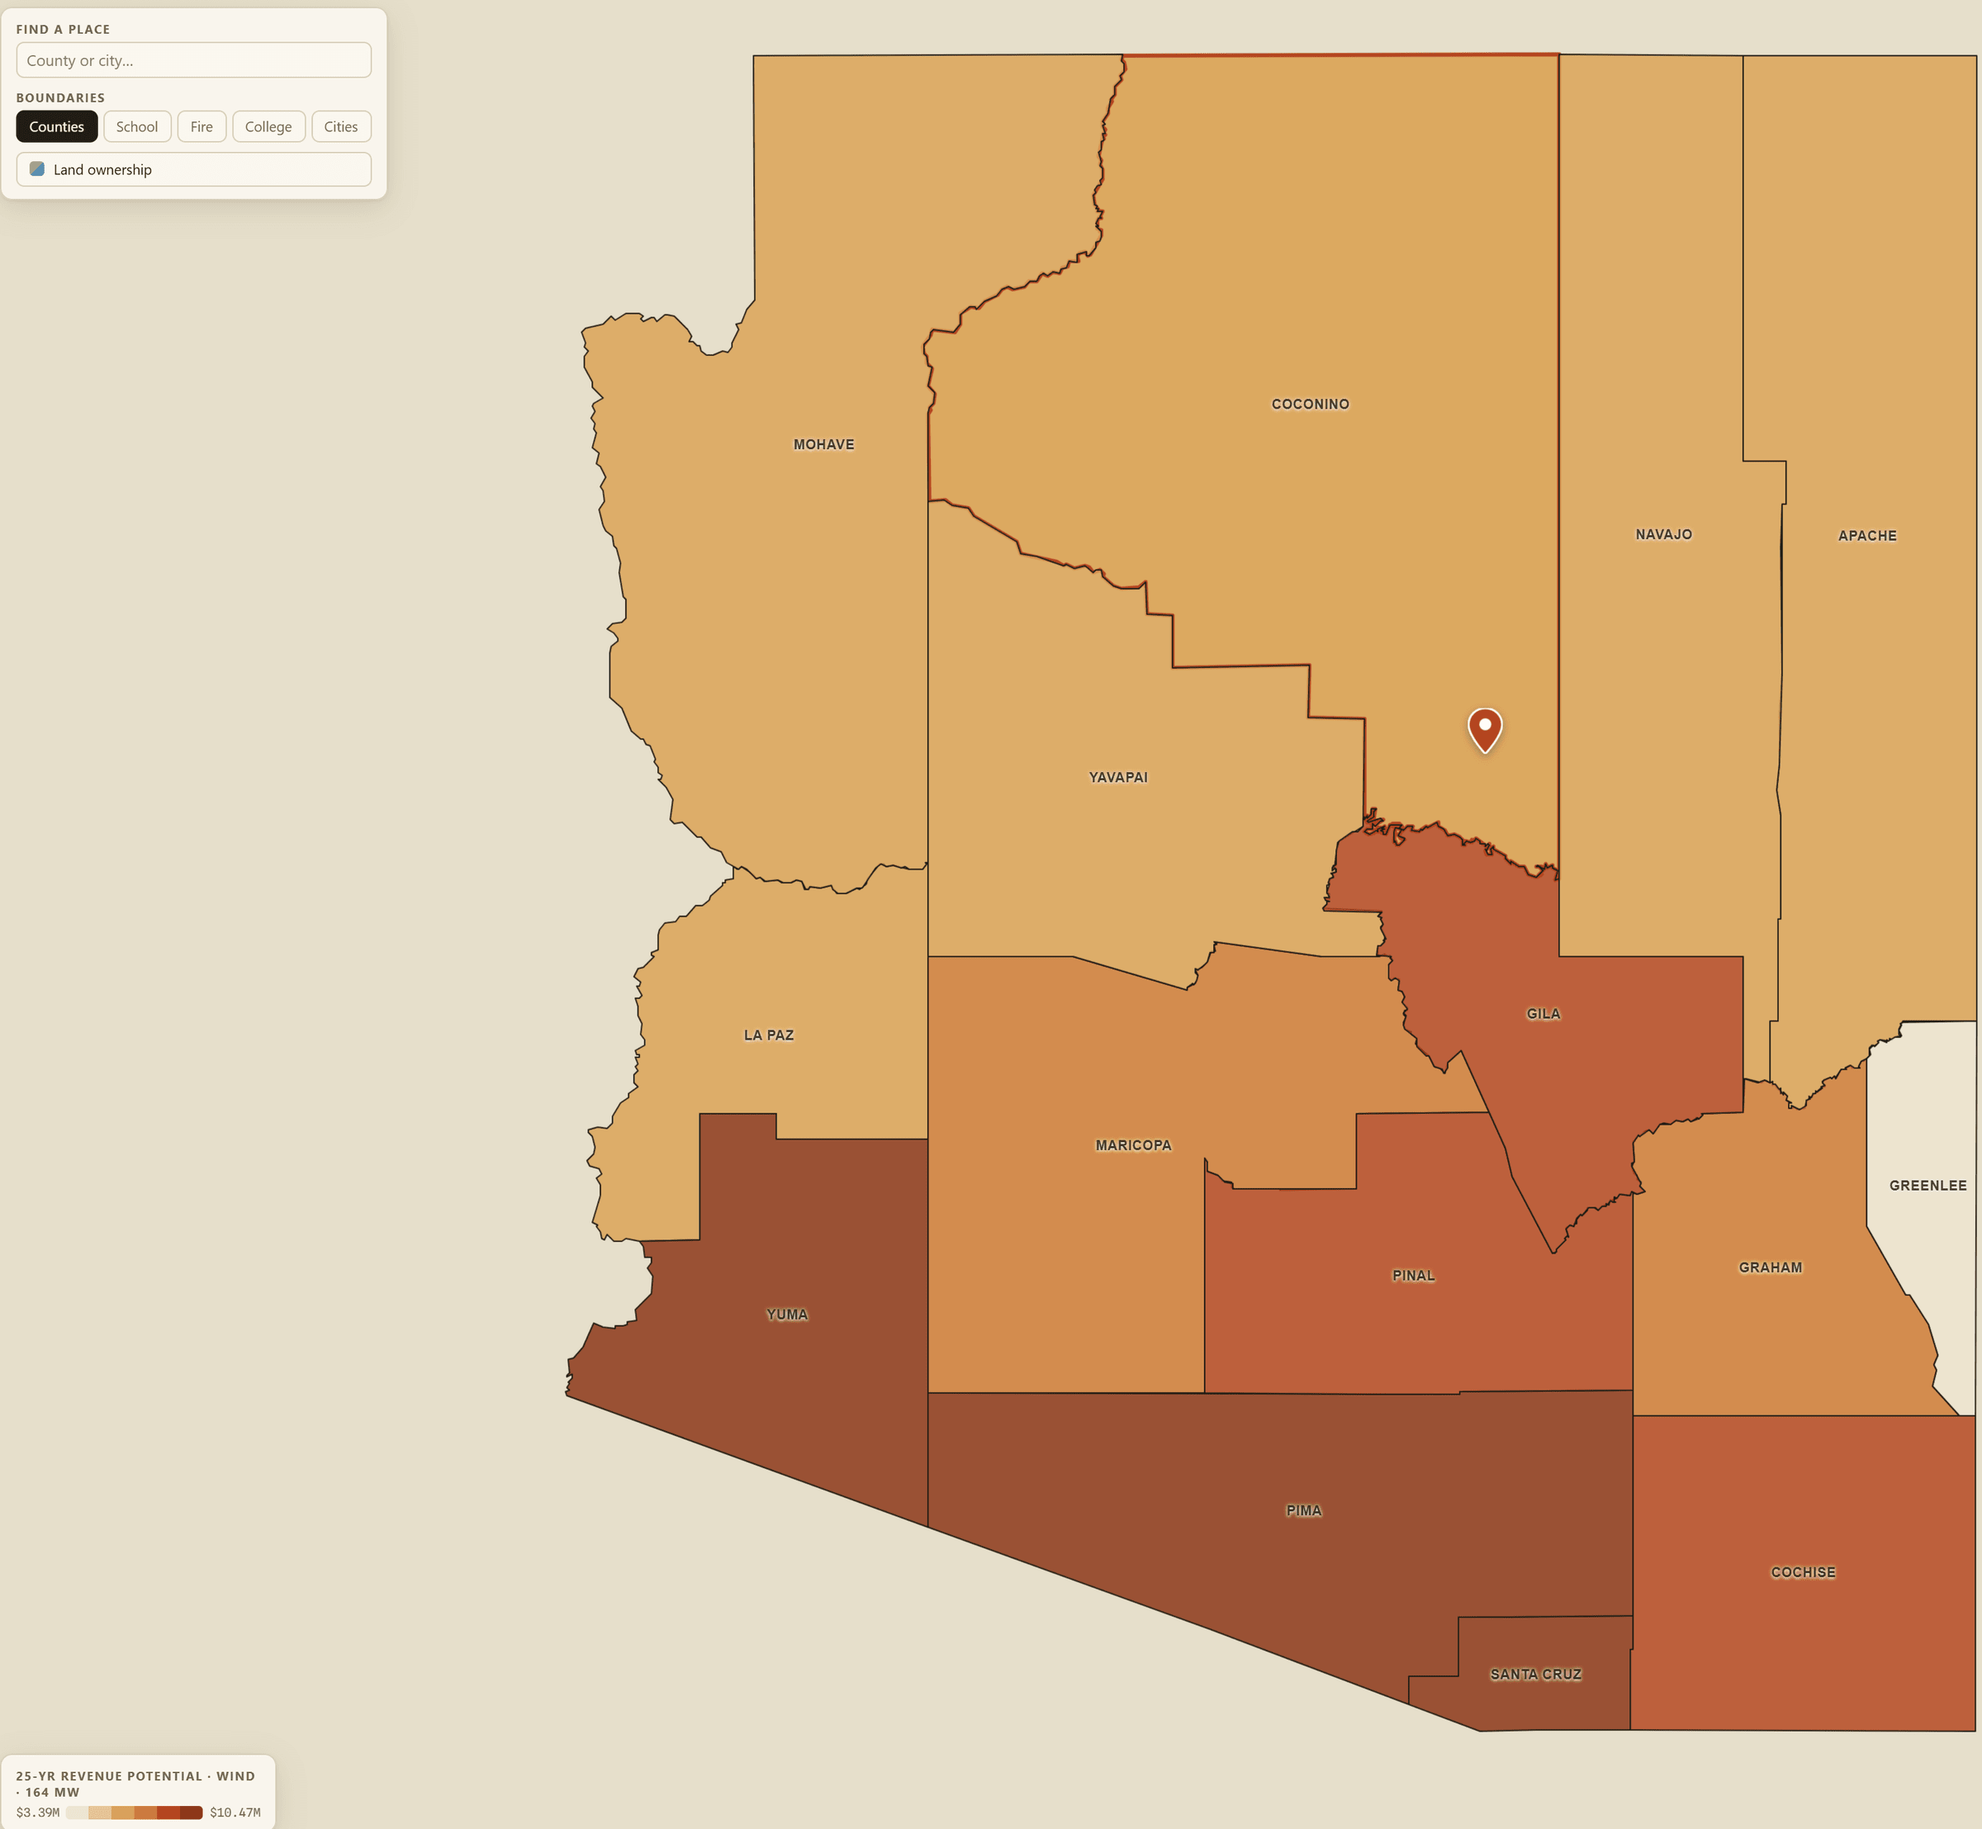
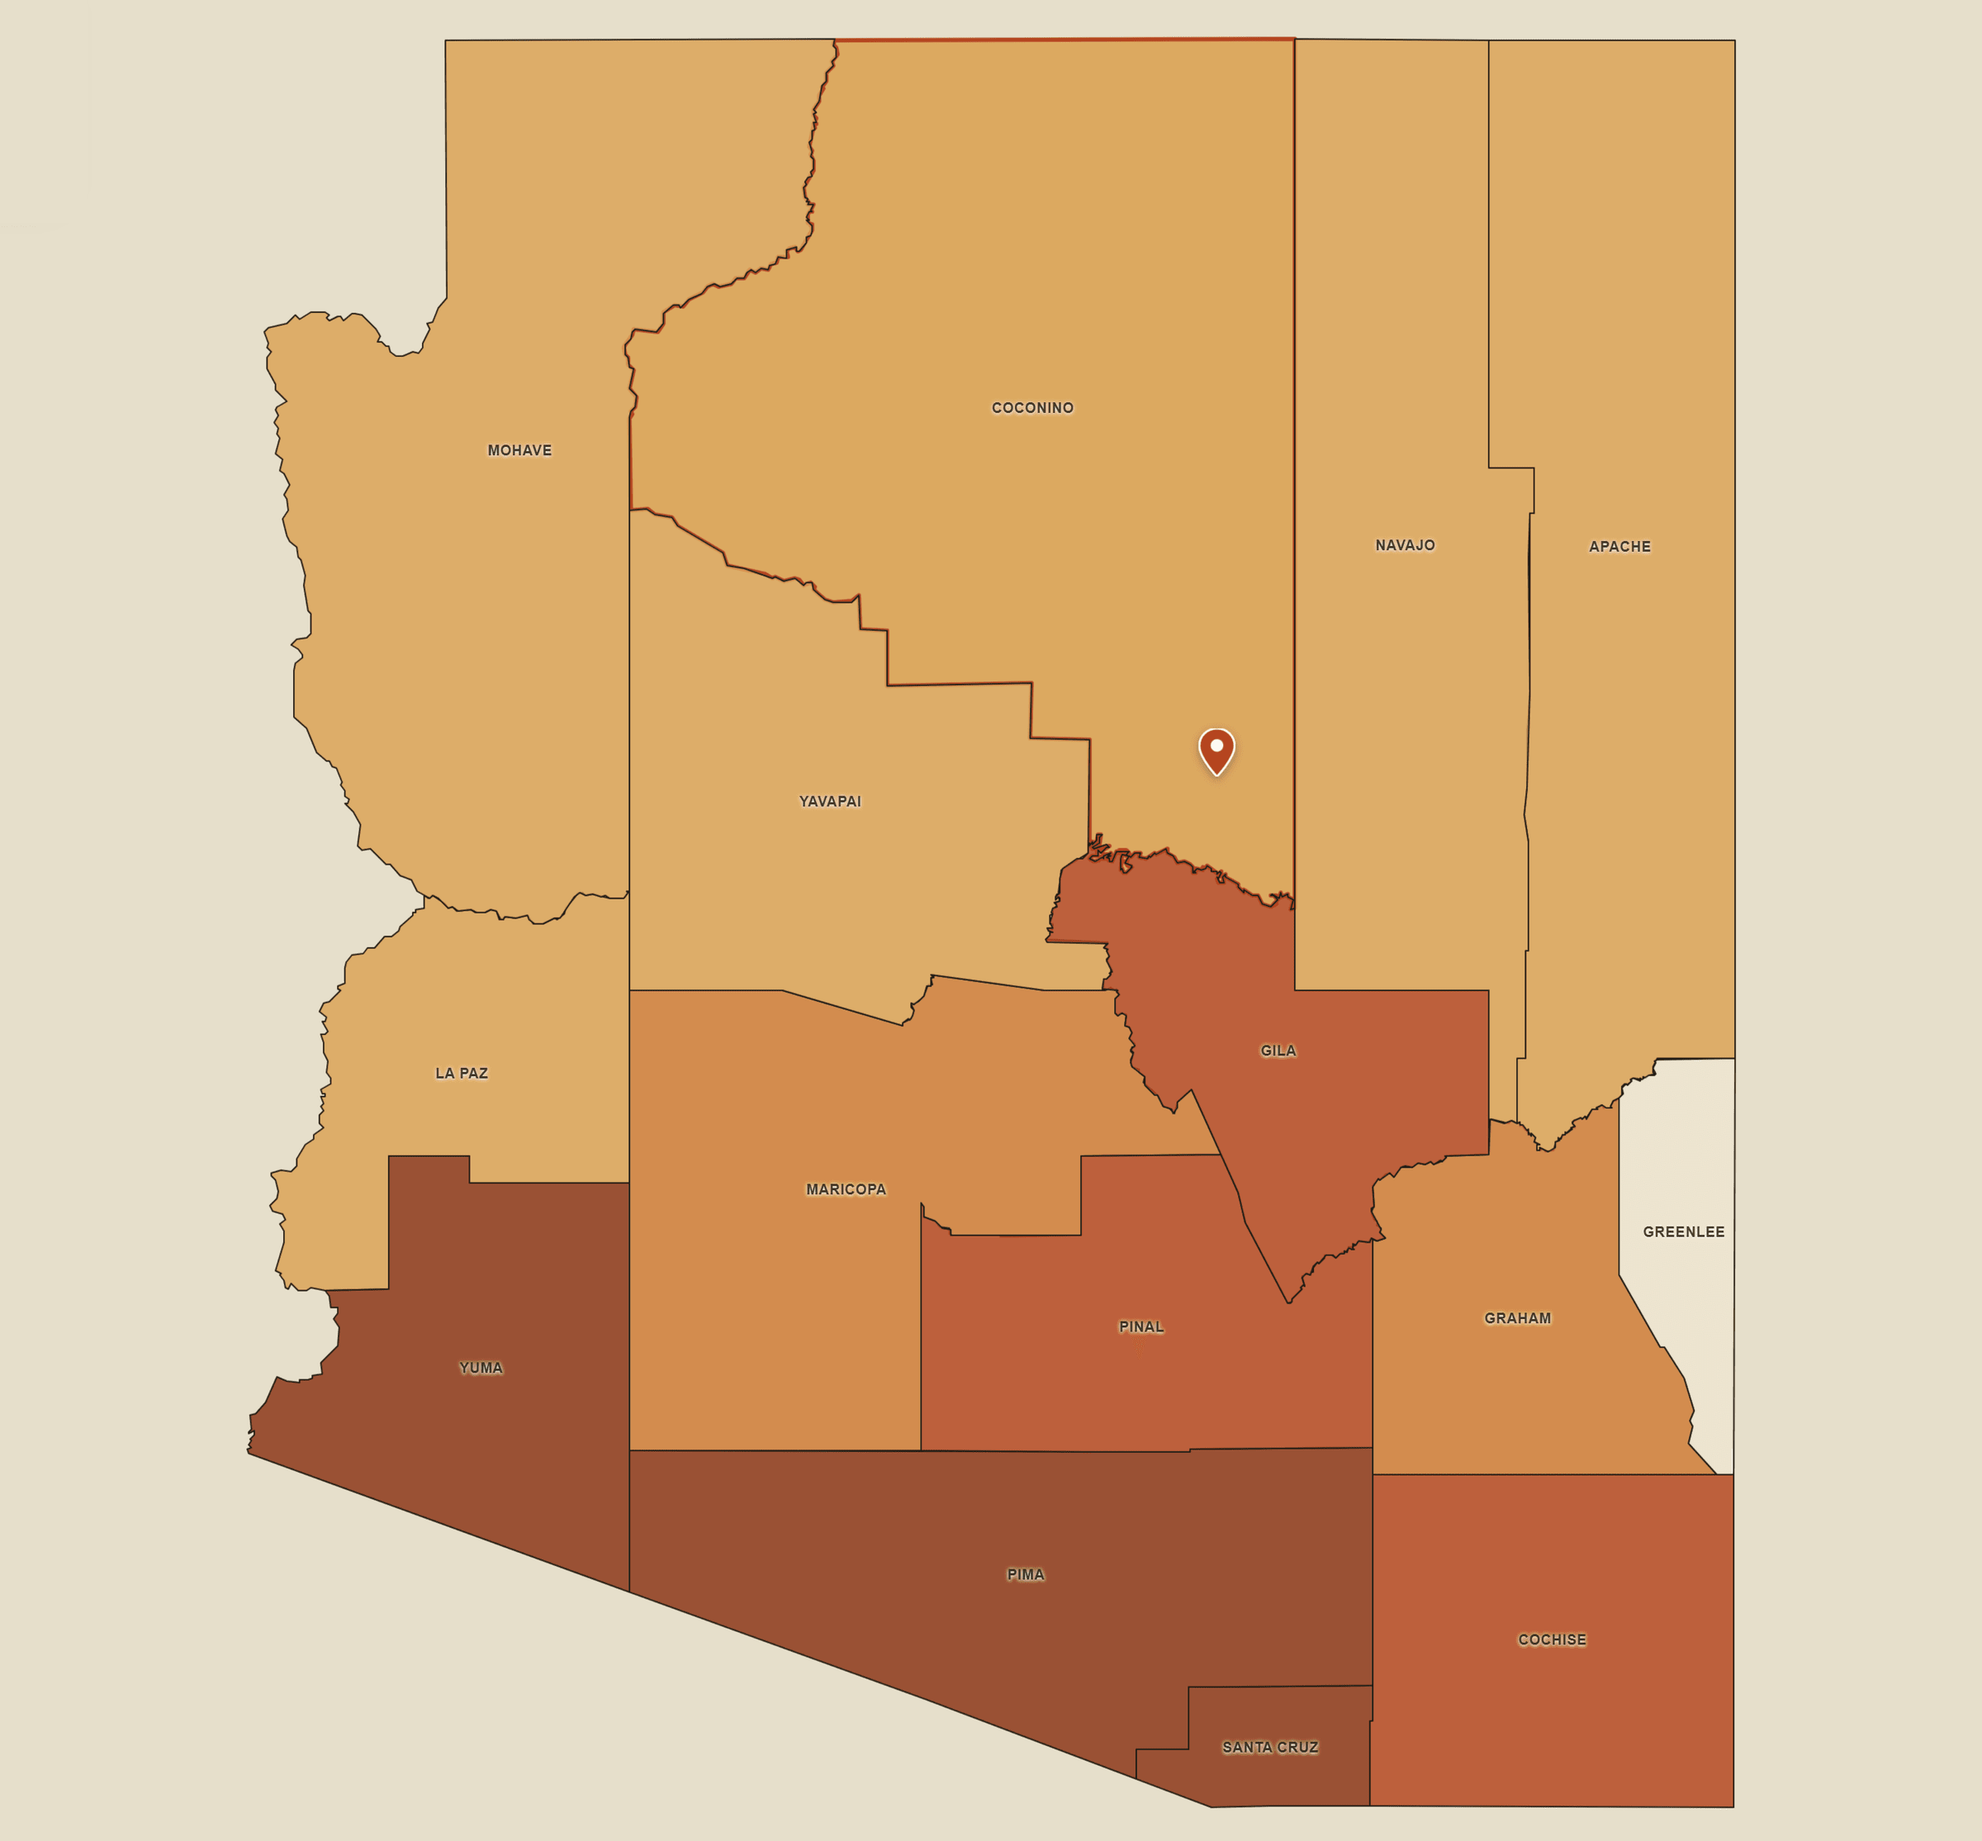
Illustrate the Projects page; fix card cover sizing and cropping
Projects index gains covers on all three tiers. Card srcset now sizes for the width object-cover actually needs rather than the box width, so covers stop being upscaled. New cover.fit contains a self-contained figure instead of cropping through its own title. Frost-free days cover re-captured with the season surface on, estimator cover re-cropped to centre Arizona, disbursements ground recoloured white.

diff --git a/src/content.config.ts b/src/content.config.ts
@@ -76,6 +76,23 @@ const projects = defineCollection({
           photoCredit: z
             .object({ name: z.string(), url: z.string().url().optional() })
             .optional(),
+          /*
+            How the CARD should fit this cover. Added 2026-07-31.
+
+            Cards crop with object-cover, which is right for a photograph or
+            a screenshot: it fills the frame and losing the edges costs
+            nothing. It is wrong for a self-contained FIGURE that carries its
+            own title, legend, and caption, because a card box taller than
+            the figure is wide slices straight through that text. The land
+            ownership map is the case: at 256x286 the title read "...al land"
+            and the source line was cut mid-sentence.
+
+            "contain" shows the whole figure instead. The letterboxing is
+            invisible when the figure's own background is white, because the
+            card is white too. Only set this for figures; a photograph set to
+            contain floats in a white band and looks broken.
+          */
+          fit: z.enum(['cover', 'contain']).default('cover'),
         })
         .optional(),
       /** Manual ordering within a tier (lower first). */

diff --git a/src/content/tools/mt-frost-free-days.md b/src/content/tools/mt-frost-free-days.md
@@ -8,11 +8,27 @@
 title: "Montana frost-free days calculator"
 blurb: "Freeze probabilities for 409 Montana stations, 1991–2025: last spring freeze, first fall freeze, and season length at 10, 50, and 90% odds, with confidence intervals shown. Validated against NOAA freeze normals, and honest about where a 4 km grid misreads Montana terrain."
 url: "https://jacksoncrose.github.io/frost-free-days/"
-# Cover added 2026-07-30 (Home cards decision). Screenshot already in
-# src/assets/images from the FFD integration; alt written from the capture.
+# Cover added 2026-07-30 (Home cards decision).
+#
+# COVER REPLACED 2026-07-31. Jackson: the card "is basically just white and
+# hard to interpret." He was right, and the cause was the capture, not the
+# crop: the app had Surface layers set to Off, so Montana rendered as a white
+# shape with small blue station dots, which at the 256x177 card box is a
+# white rectangle with specks. Re-captured with the SEASON surface on, which
+# fills the state with the classed median-frost-free-days choropleth. The app
+# is self-contained in public/frost-free-days/, so a cloud session can serve
+# it locally and drive it; no browser round trip to Jackson is needed.
+#
+# The capture hides the two floating .legend control boxes and the Leaflet
+# control container, and is cropped to the data bounding box. It carries NO
+# basemap tiles (the container cannot reach the tile server) — the Season
+# surface covers them anyway. Same filename as before, so `npm run images`
+# re-ingests it. Stays PNG per the maps-and-screenshots rule; checked for
+# banding, mean abs diff 0.32/255, because the surface is classed rather
+# than a smooth gradient. 91 KB -> 331 KB.
 cover:
   src: "../../assets/images/mt-frost-free-days-app.png"
-  alt: "Interface of the Montana frost-free days calculator: a map of Montana dotted with climate stations, and a results panel giving last spring freeze, first fall freeze, and season length for a selected station."
+  alt: "Montana shaded by median frost-free season length: pale through the southwestern mountains where the season is shortest, deepening across the eastern plains, with several hundred climate stations plotted as small circles."
 order: 4
 draft: false
 ---

diff --git a/src/content/projects/federal-fossil-fuel-disbursements.md b/src/content/projects/federal-fossil-fuel-disbursements.md
@@ -28,6 +28,16 @@ cover:
   # list — NOT reproduced from the report PDF. d3 + us-atlas, site palette,
   # CVD-validated green/blue pair.
   alt: "Map of the United States highlighting the 14 states that receive federal fossil fuel disbursements: ten onshore recipients in the West and Alaska, and four offshore recipients along the Gulf of Mexico."
+  # fit: contain (2026-07-31). Jackson: "the federal mineral revenues map is
+  # cut off on the edges." He was right: a landscape US map at 1.509 in a
+  # 256x228 card box loses 13% off each side to object-cover, which took
+  # California, Alaska and Maine, and clipped the legend. Same fix as the
+  # land ownership figure. The figure's ground was recoloured from the paper
+  # beige #F5F1E8 to #FFFFFF at the same time so the letterboxing is
+  # invisible against the white card; the no-data state fill is a different
+  # value (#E7E1D3) and was untouched. If this d3 figure is ever
+  # regenerated, keep the white ground.
+  fit: "contain"
 draft: false
 ---
 

diff --git a/src/content/projects/national-land-ownership.md b/src/content/projects/national-land-ownership.md
@@ -16,6 +16,14 @@ hasPage: true
 cover:
   src: "../../assets/images/federal-land-share-2024.png"
   alt: "County choropleth of the United States showing federal land as a share of county land area in sequential greens: near-solid dark green across Nevada, Utah, Idaho, and the Intermountain West, pale scattered greens east of the Rockies, with Alaska and Hawaii inset."
+  # fit: contain (2026-07-31). This cover is a self-contained figure with a
+  # title, a legend, and the source line that names Headwaters Economics.
+  # The card box is 256x286, taller than the figure is wide, so object-cover
+  # sliced the title to "...al land" and cut the caption mid-sentence. The
+  # figure's own background is white and so is the card, so containing it
+  # letterboxes invisibly. The project page is unaffected: it renders the
+  # cover at natural aspect, not cropped.
+  fit: "contain"
 order: 1
 draft: false
 ---
